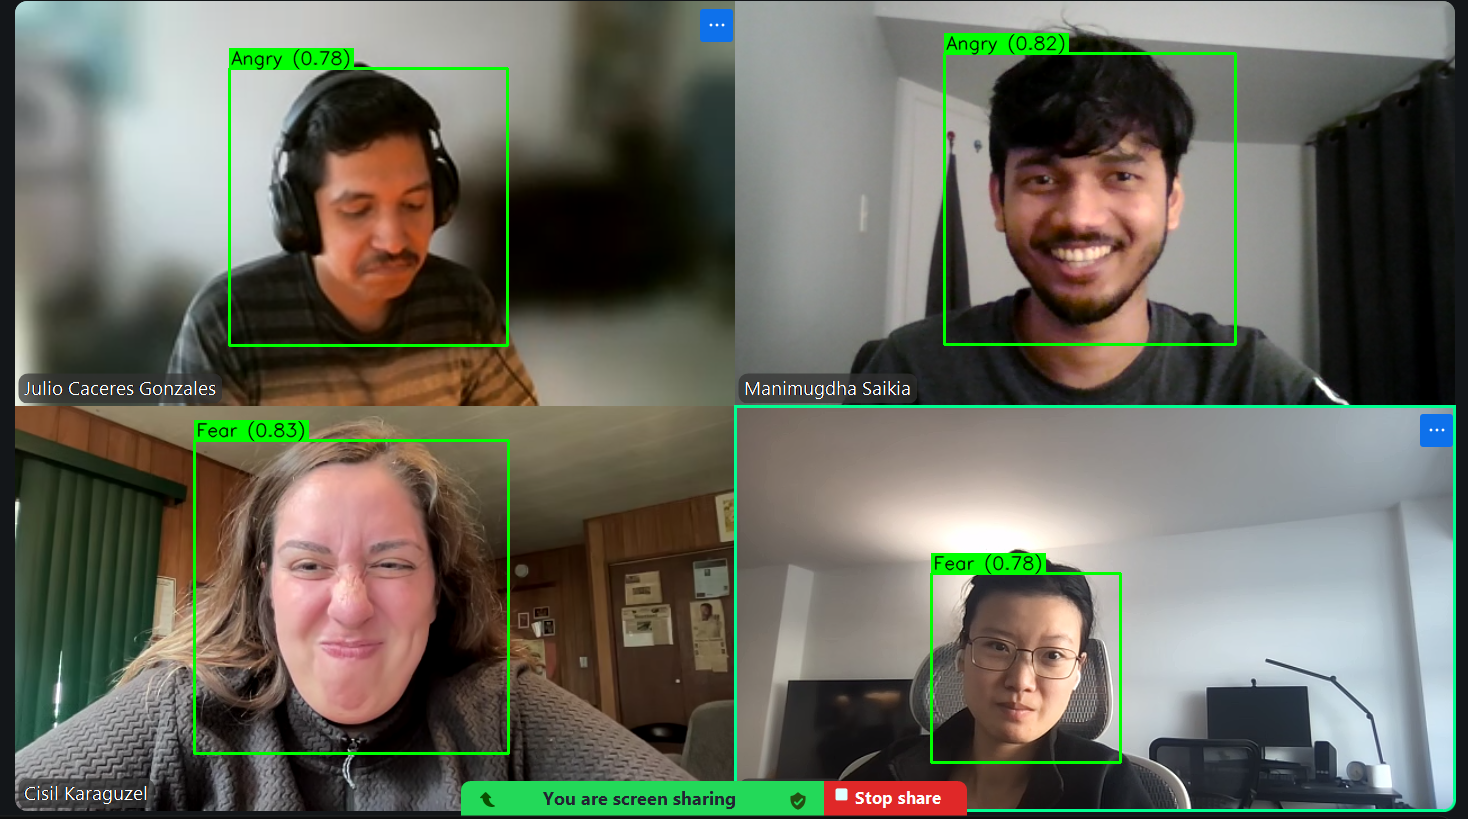
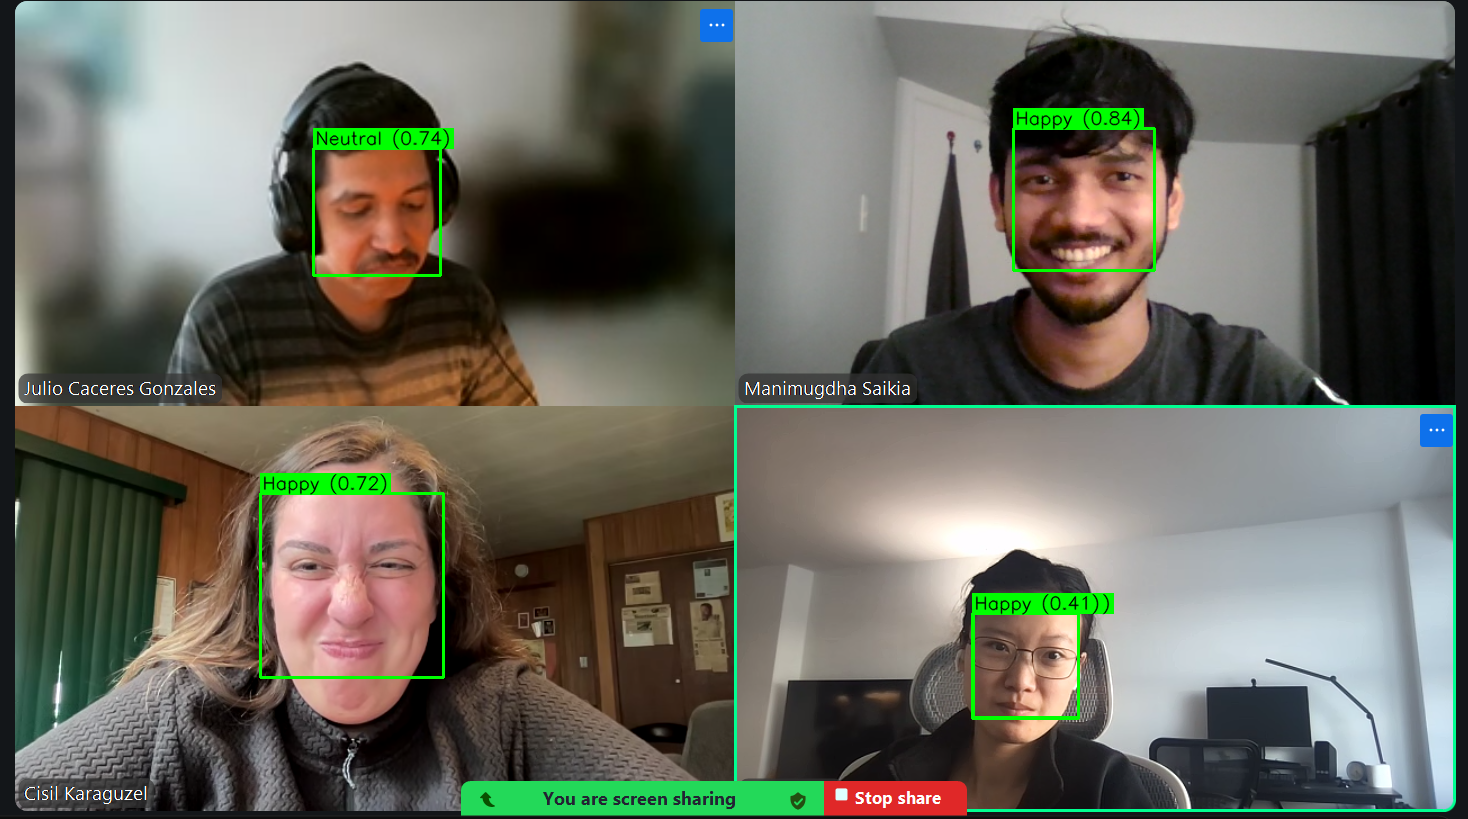
3 models added to the app

diff --git a/app/app.py b/app/app.py
@@ -1,7 +1,8 @@
 import streamlit as st
 from PIL import Image
 import pandas as pd
-from yolo_model.model import run_model
+from yolo_model.yolov11m import run_yolo11m_model
+from yolo_model.yolov11m_face import run_yolo11m_face_model
 from two_step_model import two_step_pipeline
 from pathlib import Path
 
@@ -64,6 +65,29 @@ def save_on_disk(uploaded_file):
         f.write(uploaded_file.read())
     return save_path
 
+def process_volo_version(model_choice, uploaded_file):
+    ext = uploaded_file.split(".", 1)[1]
+    ann_img_path = "inputs/annotated_output_image." + ext
+    face_df_path = "inputs/faces_data.csv"
+    if st.button("🚀 Run Model"):
+        st.info("⏳ Running the selected model, please wait...")
+        pil_image = Image.open(uploaded_file)
+        if model_choice == "YOLOv11m": 
+            annotated_img, df = run_yolo11m_model(pil_image)
+        else:
+            annotated_img, df = run_yolo11m_face_model(pil_image)
+        annotated_img.save(ann_img_path)
+        df.to_csv(face_df_path)
+        if len(df) != 0:
+            st.image(annotated_img, caption="Annotated Output", width='stretch')
+            st.dataframe(df)
+        else:
+            st.markdown(f"""
+                <div style='text-align:center; color:#ff4b1f; font-size:20px;'>
+                <b> {no_face_message}
+                </div>
+                """, unsafe_allow_html=True)
+
 def app_processing(uploaded_file):
     uploaded_file = save_on_disk(uploaded_file)
     ext = uploaded_file.split(".", 1)[1]
@@ -71,27 +95,15 @@ def app_processing(uploaded_file):
     face_df_path = "inputs/faces_data.csv"
     model_choice = st.selectbox(
         "Select a model to use:",
-        ("YOLOv11", "Two-Step-Model"),
+        ("YOLOv11m", "YOLOv11mFace", "Two-Step-Model"),
         index=None,  # None = no pre-selection
         placeholder="Choose a model..."
     )
     if model_choice is not None:
-        if model_choice == "YOLOv11":
-            if st.button("🚀 Run Model"):
-                st.info("⏳ Running the selected model, please wait...")
-                pil_image = Image.open(uploaded_file)  
-                annotated_img, df = run_model(pil_image)
-                annotated_img.save(ann_img_path)
-                df.to_csv(face_df_path)
-                if len(df) != 0:
-                    st.image(annotated_img, caption="Annotated Output", width='stretch')
-                    st.dataframe(df)
-                else:
-                    st.markdown(f"""
-                        <div style='text-align:center; color:#ff4b1f; font-size:20px;'>
-                        <b> {no_face_message}
-                        </div>
-                        """, unsafe_allow_html=True)
+        if model_choice == "YOLOv11m":
+            process_volo_version(model_choice, uploaded_file)
+        elif model_choice == "YOLOv11mFace":
+            process_volo_version(model_choice, uploaded_file)
         elif model_choice == "Two-Step-Model": 
             if st.button("🚀 Run Model"):
                 st.info("⏳ Running the selected model, please wait...")

diff --git a/app/yolo_model/utils.py b/app/yolo_model/utils.py
@@ -11,8 +11,6 @@ try:
 except Exception:
     TORCH_AVAILABLE = False
 
-from ultralytics import YOLO
-
 
 ## Helper functions
 def get_available_devices() -> List[str]:
@@ -139,12 +137,6 @@ MAX_DET    = 300
 AGNOSTIC_NMS = False
 FP16 = False
 
-def load_yolo_model():
-    WEIGHTS = Path("../YOLO_training/runs/yolo11m_finetuned2/weights/last.pt")      
-    assert WEIGHTS.exists(), f"Model weights not found at {WEIGHTS.resolve()}"
-    model = YOLO(str(WEIGHTS))
-    return model
-
 
 def run_inference(model, image) -> Union[Tuple[Image.Image,Image.Image, pd.DataFrame], None]:
     img = image.convert("RGB")
@@ -159,8 +151,4 @@ def run_inference(model, image) -> Union[Tuple[Image.Image,Image.Image, pd.DataF
     df = results_to_df(res)
 
     return ann, df
-    
-def run_model(image: Image.Image = None):
-    model = load_yolo_model()
-    return run_inference(model, image)
     

diff --git a/app/yolo_model/yolov11m_face.py b/app/yolo_model/yolov11m_face.py
@@ -1,0 +1,14 @@
+from .utils import run_inference
+from PIL import Image
+from ultralytics import YOLO
+from pathlib import Path
+
+def load_yolo11m_face_model():
+    WEIGHTS = Path("../YOLO_training/runs/yolo11m_face_finetuned2/weights/last.pt")      
+    assert WEIGHTS.exists(), f"Model weights not found at {WEIGHTS.resolve()}"
+    model = YOLO(str(WEIGHTS))
+    return model
+
+def run_yolo11m_face_model(image: Image.Image = None):
+    model = load_yolo11m_face_model()
+    return run_inference(model, image)

diff --git a/app/yolo_model/yolov11m.py b/app/yolo_model/yolov11m.py
@@ -1,0 +1,15 @@
+from .utils import run_inference
+from PIL import Image
+from ultralytics import YOLO
+from pathlib import Path
+
+def load_yolo11m_model():
+    WEIGHTS = Path("../YOLO_training/runs/yolo11m_finetuned4/weights/last.pt")      
+    assert WEIGHTS.exists(), f"Model weights not found at {WEIGHTS.resolve()}"
+    model = YOLO(str(WEIGHTS))
+    return model
+
+def run_yolo11m_model(image: Image.Image = None):
+    model = load_yolo11m_model()
+    return run_inference(model, image)
+
